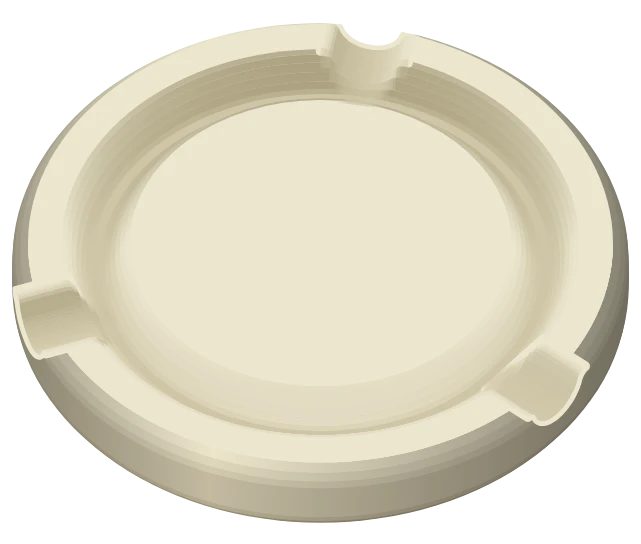
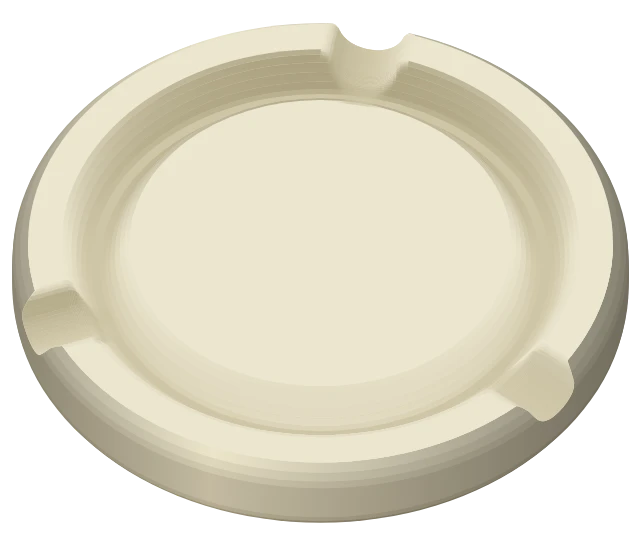
Smooth ZÈRTZ's notches in MATRX GIPF
The notch backing loses its stroke, which drew a pale outline round each notch. Notches
facing you are no longer cut out of the disc, since their surface and backing cover all
they take away; far ones are cut only above their profile, where the board shows through.
Each notch's surface ends where the disc is solid at its height, so it no longer runs past
the rounded rim, and it is drawn in 24 rows along the groove rather than 6.

Claude-Session: https://claude.ai/code/session_01T2Axx5HCwVKnkzeRZ5ZsuR

diff --git a/games/matrx-ui/src/lib/board/pieceShape.ts b/games/matrx-ui/src/lib/board/pieceShape.ts
@@ -82,7 +82,9 @@ const ZERTZ_LIP = 0.04
 // along it, for its shading.
 const ZERTZ_FROM = TROUGH.outer - (TROUGH.outer - TROUGH.inner) * 0.6
 const ZERTZ_ACROSS = 32
-const ZERTZ_ALONG = 6
+const ZERTZ_ALONG = 24
+// Rows from the ring groove's edge out to where the notch leaves the disc.
+const ZERTZ_MOUTH_ROWS = 4
 // How far a carving must lower the top before it is drawn, and before it is drawn solid.
 const CARVE_MIN = 0.006
 const CARVE_FADE = 0.012
@@ -407,20 +409,27 @@ function rimNotch(
     const groove = (out: number) => THICKNESS - grooveDepth(out, TROUGH)
     const surface = (out: number, side: number) => smoothMin(groove(out), notch(side), ZERTZ_FILLET)
 
-    const outs = [
-        ...Array.from(
-            { length: ZERTZ_ALONG },
-            (_, step) => ZERTZ_FROM + ((TROUGH.outer - ZERTZ_FROM) * step) / ZERTZ_ALONG
-        ),
-        TROUGH.outer,
-        (TROUGH.outer + reach) / 2,
-        reach
-    ]
     const width = filletCentre
     const sides = Array.from(
         { length: ZERTZ_ACROSS + 1 },
         (_, step) => -width + (2 * width * step) / ZERTZ_ACROSS
     )
+    // Where the notch leaves the disc: facing you, through the side where the disc is solid at
+    // the notch's height, which is further in towards its lips, where the edge rounds over.
+    const mouth = (side: number) => (facesYou ? profile(notch(side)).radius : reach)
+    // Rows across the notch, each a distance out at every point across: through the groove,
+    // then on out to the mouth.
+    const rows = [
+        ...Array.from(
+            { length: ZERTZ_ALONG },
+            (_, step) => () => ZERTZ_FROM + ((TROUGH.outer - ZERTZ_FROM) * step) / ZERTZ_ALONG
+        ),
+        ...Array.from(
+            { length: ZERTZ_MOUTH_ROWS + 1 },
+            (_, step) => (side: number) =>
+                TROUGH.outer + ((mouth(side) - TROUGH.outer) * step) / ZERTZ_MOUTH_ROWS
+        )
+    ]
     const toFlat = (out: number, side: number) => ({
         u: along.u * out + across.u * side,
         v: along.v * out + across.v * side
@@ -430,19 +439,12 @@ function rimNotch(
     const cells = carvedCells(
         flat,
         tone,
-        outs.map((out) => sides.map((side) => toFlat(out, side))),
+        rows.map((row) => sides.map((side) => toFlat(row(side), side))),
         (u, v) => surface(outOf(u, v), sideOf(u, v)),
         (u, v) => groove(outOf(u, v)),
         // Every cell the notch lowers, however little, so its lips round smoothly into the top.
         1e-5
     )
-    const opening = (from: number, out: number) =>
-        polygon([
-            at(from, width, THICKNESS),
-            at(out, width, THICKNESS),
-            at(out, -width, THICKNESS),
-            at(from, -width, THICKNESS)
-        ])
     const rim = TROUGH.outer - 0.02
     const floorHeight = THICKNESS - TROUGH_DEPTH
     // Inside the groove, the notch shows wherever its surface lies, down to the groove's floor.
@@ -462,13 +464,19 @@ function rimNotch(
     // its rounded profile there. On the far side the board shows through above that profile.
     const footprint = polygon([
         at(rim, width, THICKNESS),
-        ...sides.toReversed().map((side) => at(reach, side, notch(side))),
+        ...sides.toReversed().map((side) => at(mouth(side), side, notch(side))),
         at(rim, -width, THICKNESS)
     ])
+    // On the far side the rim is open above the notch's profile, where the board shows through.
+    const beyond = polygon([
+        at(1.3, width, THICKNESS),
+        ...sides.toReversed().map((side) => at(reach, side, notch(side))),
+        at(1.3, -width, THICKNESS)
+    ])
     return {
-        // Facing you, the cut is the notch itself; on the far side it also opens the rim above
-        // the notch's profile, where the board shows through.
-        through: [facesYou ? footprint : opening(rim, 1.03)],
+        // Facing you, nothing is cut: the backing and the notch's surface cover all it takes
+        // away, and a cut's soft edge under them showed as a seam.
+        through: facesYou ? [] : [beyond],
         clip: [footprint, inGroove],
         backing: [footprint],
         cells

diff --git a/games/matrx-ui/src/lib/components/DiscLook.svelte b/games/matrx-ui/src/lib/components/DiscLook.svelte
@@ -144,7 +144,7 @@
                         <path d={clip}></path>
                     {/each}
                 </clipPath>
-                <!-- Unclipped and edged, the backing covers the cut's soft edge. -->
+                <!-- Unclipped, the backing covers the cut's soft edge. -->
                 {#each mark.backings as backing, backingIndex (backingIndex)}
                     <path d={backing} class="notch-backing {tone}"></path>
                 {/each}
@@ -159,20 +159,13 @@
 </g>
 
 <style>
-    .notch-backing {
-        stroke-width: 0.8;
-        stroke-linejoin: round;
-    }
-
     /* The top's own colour, where the notch's lips meet it. */
     .notch-backing.light {
         fill: #ece6d0;
-        stroke: #ece6d0;
     }
 
     .notch-backing.dark {
         fill: #2c2829;
-        stroke: #2c2829;
     }
 
     .hole-wall.light {
